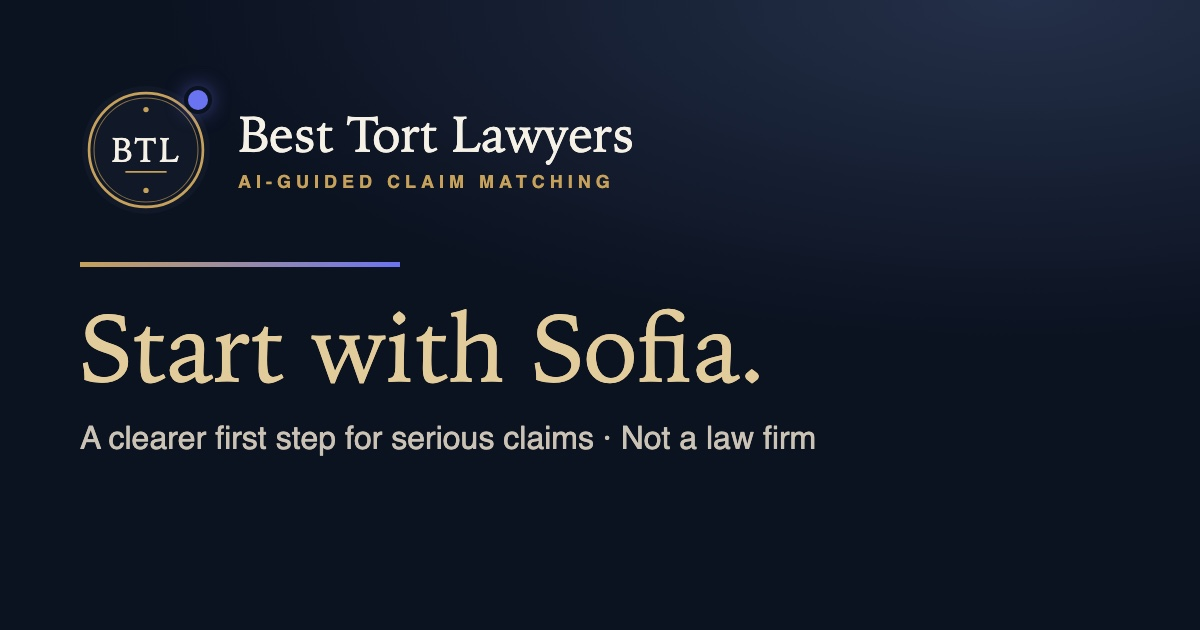
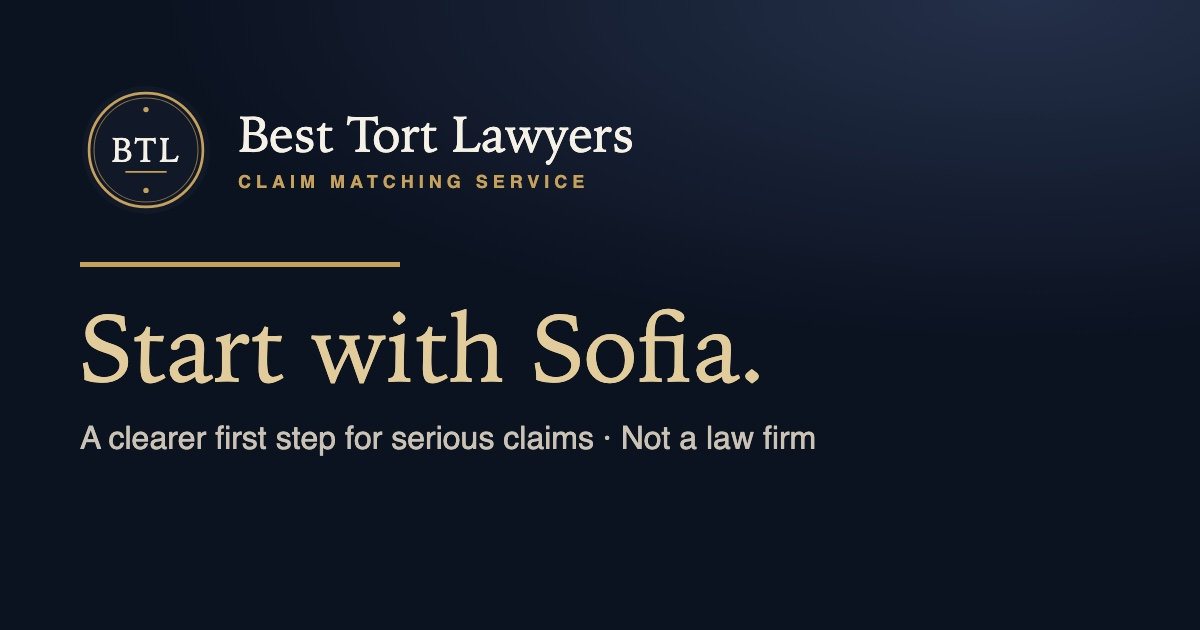
/paraquat/: no AI/Sofia wording, just qualifier dropdowns + contact (AI-free call consent); remove 'AI-guided claim matching' site-wide; share image updated

Changed region(s): [[0.185, 0.2714, 0.5242, 0.3016], [0.1233, 0.3921, 0.3392, 0.4524], [0.1542, 0.1206, 0.185, 0.181]]

diff --git a/btl/paraquat/index.html b/btl/paraquat/index.html
@@ -26,7 +26,7 @@ j=d.createElement(s),dl=l!='dataLayer'?'&l='+l:'';j.async=true;j.src=
 })(window,document,'script','dataLayer','GTM-PHC7459M');</script>
 <!-- End Google Tag Manager -->
 <link rel="icon" href="/assets/btl-seal.svg" type="image/svg+xml">
-<link rel="stylesheet" href="/paraquat/paraquat.css?v=20260928c">
+<link rel="stylesheet" href="/paraquat/paraquat.css?v=20260928d">
 <style>
 :root{
   --ink:#111827;--ink-2:#374151;--muted:#6b7280;--paper:#f6f1e7;--paper-2:#efe8db;--card:#fffdf8;
@@ -180,7 +180,7 @@ footer{background:var(--ink);color:#aeb6c2;padding:48px 0 32px;font-size:.86rem}
 .wm small{margin-top:4px;font-size:.6rem;font-weight:700;letter-spacing:.2em;text-transform:uppercase;color:var(--gold-ink)}
 footer .wm small{color:var(--gold)}
 .seal{position:relative;display:block;flex:none}
-.seal::after{content:"";position:absolute;right:0;top:1px;width:10px;height:10px;border-radius:50%;background:#6b74f0;box-shadow:0 0 0 2px var(--paper),0 0 10px #6b74f0;animation:aipulse 2.6s ease-in-out infinite}
+.seal::after{display:none;content:"";position:absolute;right:0;top:1px;width:10px;height:10px;border-radius:50%;background:#6b74f0;box-shadow:0 0 0 2px var(--paper),0 0 10px #6b74f0;animation:aipulse 2.6s ease-in-out infinite}
 @keyframes aipulse{0%,100%{opacity:.55;transform:scale(.85)}50%{opacity:1;transform:scale(1.05)}}
 @media(prefers-reduced-motion:reduce){.seal::after{animation:none}}
 /* dropdown qualifier inside Muse's Sofia card */
@@ -197,10 +197,10 @@ footer .wm small{color:var(--gold)}
 </head>
 <body>
 <noscript><iframe src="https://www.googletagmanager.com/ns.html?id=GTM-PHC7459M" height="0" width="0" style="display:none;visibility:hidden" title="Google Tag Manager"></iframe></noscript>
-<a class="skip" href="#sofia">Skip to Sofia</a>
+<a class="skip" href="#sofia">Skip to the form</a>
 
 <header class="wrap top">
-  <a class="brand" href="/" aria-label="Best Tort Lawyers home"><span class="seal"><img src="/assets/btl-seal.svg" width="42" height="42" alt=""></span><span class="wm"><b>Best Tort Lawyers</b><small>AI-guided claim matching</small></span></a>
+  <a class="brand" href="/" aria-label="Best Tort Lawyers home"><span class="seal"><img src="/assets/btl-seal.svg" width="42" height="42" alt=""></span><span class="wm"><b>Best Tort Lawyers</b><small>Claim matching service</small></span></a>
   <nav aria-label="Page">
     <a href="#about">The lawsuits</a>
     <a href="#how">How it works</a>
@@ -214,18 +214,17 @@ footer .wm small{color:var(--gold)}
   <div class="wrap">
     <span class="eyebrow">Paraquat claim information</span>
     <h1>Paraquat questions. <em>A clearer first step.</em></h1>
-    <p class="lede">Start with Sofia, Best Tort Lawyers' AI intake guide. Share a few basics about the product and your history to help identify whether you may potentially qualify for further review by an independent law firm.</p>
-    <p class="fine">BTL is a matching/directory service, not a law firm. Sofia is AI, not an attorney. No legal advice or attorney-client relationship is created.</p>
+    <p class="lede">Answer a few quick questions and share your contact details to help identify whether you may potentially qualify for further review by an independent law firm.</p>
+    <p class="fine">BTL is a matching/directory service, not a law firm. No legal advice or attorney-client relationship is created.</p>
 
-    <section class="sofia" id="sofia" aria-label="Sofia, Paraquat intake">
+    <section class="sofia" id="sofia" aria-label="Paraquat case review form">
       <div class="s-head">
-        <div class="s-av" aria-hidden="true">S</div>
-        <div class="s-id"><b>Sofia</b><span>AI intake guide · not a lawyer</span></div>
-        <span class="pill live" id="pill">Paraquat prequalifier</span>
+        <div class="s-av" aria-hidden="true">✓</div><div class="s-id"><b>Paraquat case review</b><span>A few short questions, then your contact details</span></div>
+        <span class="pill live" id="pill">No cost to submit</span>
       </div>
       <div class="q-body" id="formBody">
         <p class="preview-flag" id="previewFlag" hidden>Preview — synthetic test mode, nothing is delivered</p>
-        <form id="leadForm" novalidate data-page-id="btl-paraquat-main-dropdown" data-kind="quiz">
+        <form id="leadForm" novalidate data-page-id="btl-paraquat-main-dropdown" data-kind="quiz" data-consent="no-ai">
           <div class="grid">
             <div class="field full" id="w-who"><label for="who">Who is this inquiry about?</label><select id="who" data-q="who" aria-describedby="who-e"><option value="">Select…</option><option value="self">Me</option><option value="family_living">A family member</option><option value="family_deceased">A family member who has passed away</option></select><span class="ferr" id="who-e"></span></div><div class="field full" id="w-passed" hidden><label for="passed">About when did they pass away?</label><select id="passed" data-q="passed" aria-describedby="passed-e"><option value="">Select…</option><option value="under_1y">Less than a year ago</option><option value="1_2y">1–2 years ago</option><option value="2_3y">2–3 years ago</option><option value="over3y">More than 3 years ago</option><option value="not_sure">Not sure</option></select><span class="ferr" id="passed-e"></span></div><div class="field full" id="w-diagnosis"><label for="diagnosis">Has a doctor diagnosed Parkinson’s disease?</label><select id="diagnosis" data-q="diagnosis" aria-describedby="diagnosis-e"><option value="">Select…</option><option value="yes">Yes</option><option value="no">No</option><option value="not_sure">Not sure</option></select><span class="ferr" id="diagnosis-e"></span></div><div class="field full" id="w-lawyer"><label for="lawyer">Is a lawyer already handling this, or has anyone signed with a lawyer about it?</label><select id="lawyer" data-q="lawyer" aria-describedby="lawyer-e"><option value="">Select…</option><option value="no">No</option><option value="handling">Yes — a lawyer is handling it</option><option value="signed">Signed with a lawyer before</option><option value="not_sure">Not sure</option></select><span class="ferr" id="lawyer-e"></span></div><div class="field full" id="w-job"><label for="job">Was the exposure at a job?</label><select id="job" data-q="job" aria-describedby="job-e"><option value="">Select…</option><option value="job">Yes, at a job (incl. work while incarcerated)</option><option value="home">No — home, garden or hobby use</option><option value="not_sure">Not sure</option></select><span class="ferr" id="job-e"></span></div><div class="field full" id="w-role"><label for="role">What did the work involve?</label><select id="role" data-q="role" aria-describedby="role-e"><option value="">Select…</option><option value="mixed">Mixed or loaded it</option><option value="applied">Applied or sprayed it</option><option value="flagger">Flagged for a crop duster</option><option value="sprayed_on">Was sprayed directly</option><option value="other">None of these — just nearby</option><option value="not_sure">Not sure</option></select><span class="ferr" id="role-e"></span></div><div class="field full" id="w-product"><label for="product">Was it mixed with water, and where did it come from?</label><p class="q-hint">Paraquat is also sold as Gramoxone.</p><select id="product" data-q="product" aria-describedby="product-e"><option value="">Select…</option><option value="supplier">Mixed with water — from a farm or ag supplier</option><option value="retail">Store-bought (Home Depot, Lowe’s) or ready to use</option><option value="not_sure">Not sure</option></select><span class="ferr" id="product-e"></span></div><div class="field full" id="w-years"><label for="years">When did the exposure start?</label><select id="years" data-q="years" aria-describedby="years-e"><option value="">Select…</option><option value="pre1964">All of it was before 1964</option><option value="1964_2010">Between 1964 and 2010</option><option value="2011_on">2011 or later</option><option value="not_sure">Not sure</option></select><span class="ferr" id="years-e"></span></div><div class="field full" id="w-age"><label for="age">Age when it started</label><select id="age" data-q="age" aria-describedby="age-e"><option value="">Select…</option><option value="18plus">18 or older</option><option value="13_17">13 to 17</option><option value="12under">12 or younger</option><option value="not_sure">Not sure</option></select><span class="ferr" id="age-e"></span></div><div class="field full" id="w-cont13" hidden><label for="cont13">Did it continue at age 13 or older?</label><select id="cont13" data-q="cont13" aria-describedby="cont13-e"><option value="">Select…</option><option value="yes">Yes</option><option value="no">No</option><option value="not_sure">Not sure</option></select><span class="ferr" id="cont13-e"></span></div><div class="field full" id="w-season" hidden><label for="season">Worked there at least one full season?</label><select id="season" data-q="season" aria-describedby="season-e"><option value="">Select…</option><option value="yes">Yes</option><option value="no">No</option><option value="not_sure">Not sure</option></select><span class="ferr" id="season-e"></span></div><div class="field full" id="w-acres"><label for="acres">Size of the farm or area</label><select id="acres" data-q="acres" aria-describedby="acres-e"><option value="">Select…</option><option value="over3">More than about 3 acres</option><option value="under3">Less than about 3 acres</option><option value="not_sure">Not sure</option></select><span class="ferr" id="acres-e"></span></div><div class="field full" id="w-meth"><label for="meth">The firm asks everyone: ever used methamphetamine?</label><select id="meth" data-q="meth" aria-describedby="meth-e"><option value="">Select…</option><option value="no">No</option><option value="yes">Yes</option><option value="prefer_not">Prefer not to say</option></select><span class="ferr" id="meth-e"></span></div>
             <p class="q-sep">Your contact details</p>
@@ -242,10 +241,6 @@ footer .wm small{color:var(--gold)}
       </div>
       <p class="s-foot">Answers go only to Best Tort Lawyers’ intake and, when you submit, to the independent legal team that reviews Paraquat inquiries. Don’t enter Social Security numbers, payment details or medical records.</p>
     </section>
-    <div class="pq-cta">
-      <a class="pq-call" href="tel:+12138787408"><span aria-hidden="true">☎</span> Rather talk? Call Sofia · (213) 878-7408</a>
-      <a class="pq-cb" href="/paraquat/talk-to-sofia/?callback=1">Request a callback</a>
-    </div>
   </div>
 </section>
 
@@ -292,11 +287,10 @@ footer .wm small{color:var(--gold)}
   <div class="wrap">
     <h2>Before you start</h2>
     <div class="list">
-      <details><summary>Is Best Tort Lawyers a law firm?</summary><p>No. Best Tort Lawyers is a matching and directory service. It does not give legal advice, and using this page or talking with Sofia does not create an attorney-client relationship.</p></details>
-      <details><summary>Is Sofia a person?</summary><p>No. Sofia is an AI intake guide, not a person and not an attorney. She organizes what you share; she can't tell you whether you have a claim.</p></details>
-      <details><summary>I'm not sure the product was Paraquat.</summary><p>That's fine — choose “Not sure.” Sofia never assumes a weed killer was Paraquat.</p></details>
-      <details><summary>Can Sofia tell me what a case is worth?</summary><p>No. Sofia doesn't estimate value or promise review, acceptance, compensation or timing.</p></details>
-      <details><summary>Where do my answers go?</summary><p>Your messages go to Sofia, which runs on our AI intake provider, and are kept so a person can review them. They are not sold, and this page loads no advertising or analytics trackers. Sofia will tell you before anything is shared with a law firm.</p></details>
+      <details><summary>Is Best Tort Lawyers a law firm?</summary><p>No. Best Tort Lawyers is a matching and directory service. It does not give legal advice, and using this page does not create an attorney-client relationship.</p></details>
+      <details><summary>I'm not sure the product was Paraquat.</summary><p>That's fine — choose “Not sure.” We never assume a weed killer was Paraquat.</p></details>
+      <details><summary>Can you tell me what a case is worth?</summary><p>No. We don't estimate value or promise review, acceptance, compensation or timing. Any independent law firm decides under its own criteria.</p></details>
+      <details><summary>Where do my answers go?</summary><p>Only to Best Tort Lawyers’ intake and, when you submit, to the independent legal team that reviews Paraquat inquiries. They are not sold.</p></details>
     </div>
   </div>
 </section>
@@ -305,7 +299,7 @@ footer .wm small{color:var(--gold)}
 <footer>
   <div class="wrap">
     <div class="f-top">
-      <div class="f-brand"><img src="/assets/btl-seal.svg" width="36" height="36" alt=""><span class="wm"><b>Best Tort Lawyers</b><small>AI-guided claim matching</small></span></div>
+      <div class="f-brand"><img src="/assets/btl-seal.svg" width="36" height="36" alt=""><span class="wm"><b>Best Tort Lawyers</b><small>Claim matching service</small></span></div>
       <nav class="f-links" aria-label="Footer">
         <a href="/">Home</a>
         <a href="/privacy-policy/">Privacy Policy</a>
@@ -314,11 +308,11 @@ footer .wm small{color:var(--gold)}
         <a href="mailto:Sofia@besttortlawyers.com">Sofia@besttortlawyers.com</a>
       </nav>
     </div>
-    <p class="f-legal">ATTORNEY ADVERTISING. Best Tort Lawyers is a matching and directory service, not a law firm, and does not provide legal advice. Using this website or speaking with Sofia does not create an attorney-client relationship. Any independent law firm evaluates potential matters under its own criteria. No review, acceptance, representation, compensation or recovery is guaranteed. Prior results do not guarantee a similar outcome. Call Sofia, our AI intake guide, at (213) 878-7408.<br>Background photo: USDA NRCS, soybean field (public domain, <a href="https://commons.wikimedia.org/wiki/File:Seidenstricker_Farms-Reservoir-Irrigation-Precision_Land_leveled_fields_(20190625-NRCS-LSC-0447).jpg" rel="noopener">source</a>). Context only; it does not depict any claimant or exposure.</p>
+    <p class="f-legal">ATTORNEY ADVERTISING. Best Tort Lawyers is a matching and directory service, not a law firm, and does not provide legal advice. Using this website or submitting this form does not create an attorney-client relationship. Any independent law firm evaluates potential matters under its own criteria. No review, acceptance, representation, compensation or recovery is guaranteed. Prior results do not guarantee a similar outcome.<br>Background photo: USDA NRCS, soybean field (public domain, <a href="https://commons.wikimedia.org/wiki/File:Seidenstricker_Farms-Reservoir-Irrigation-Precision_Land_leveled_fields_(20190625-NRCS-LSC-0447).jpg" rel="noopener">source</a>). Context only; it does not depict any claimant or exposure.</p>
   </div>
 </footer>
 
-<script src="/paraquat/qualifier.js?v=20260928c" defer></script>
-<script src="/paraquat/intake.js?v=20260928c" defer></script>
+<script src="/paraquat/qualifier.js?v=20260928d" defer></script>
+<script src="/paraquat/intake.js?v=20260928d" defer></script>
 </body>
 </html>

diff --git a/btl/paraquat/intake.js b/btl/paraquat/intake.js
@@ -67,6 +67,8 @@
     calls: 'Calls: I agree to receive calls at the number above about my potential claim from Best Tort Lawyers — including Sofia, its AI assistant — and the law firm intake team it connects me with, including by automatic telephone dialing systems or prerecorded/artificial voice. Calls may be recorded. Consent is not a condition of any purchase or service.',
     sms: 'Texts: I agree to receive text messages at the number above about my potential claim from Best Tort Lawyers and the law firm intake team it connects me with, which may be sent using automated technology. Message frequency varies. Message and data rates may apply. Reply STOP to opt out or HELP for help. See the SMS Terms.'
   };
+  var NO_AI = form.getAttribute('data-consent') === 'no-ai';
+  if (NO_AI) CONSENT.calls = 'Calls: I agree to receive calls at the number above about my potential claim from Best Tort Lawyers and the law firm intake team it connects me with, including by automatic telephone dialing systems or prerecorded/artificial voice. Calls may be recorded. Consent is not a condition of any purchase or service.';
   var consentBox = document.getElementById('consentBox');
   consentBox.innerHTML =
     '<p class="c-title" id="consentT">How may we contact you?</p>' +
@@ -257,7 +259,7 @@
     body.innerHTML = '';
     var wrap = document.createElement('div'); wrap.className = 'receipt'; wrap.setAttribute('tabindex', '-1');
     wrap.innerHTML = '<div class="tick" aria-hidden="true"><svg width="22" height="22" viewBox="0 0 24 24" fill="none" stroke="currentColor" stroke-width="2.6" stroke-linecap="round" stroke-linejoin="round"><path d="m5 12 5 5L20 7"/></svg></div>' +
-      '<h2></h2><p class="nx"></p><p class="small" style="font-size:.86rem;color:var(--muted)">' + (KIND === 'callback' ? 'A callback request' : 'Receiving an inquiry') + ' is not a review decision. An independent law firm decides under its own criteria. You can opt out at any time by replying STOP to texts or telling Sofia.</p><dl></dl>';
+      '<h2></h2><p class="nx"></p><p class="small" style="font-size:.86rem;color:var(--muted)">' + (KIND === 'callback' ? 'A callback request' : 'Receiving an inquiry') + ' is not a review decision. An independent law firm decides under its own criteria. You can opt out at any time by replying STOP to texts or ' + (NO_AI ? 'telling us' : 'telling Sofia') + '.</p><dl></dl>';
     wrap.querySelector('h2').textContent = KIND === 'callback' ? 'Your callback request was received.' : 'Your inquiry was received.';
     wrap.querySelector('.nx').textContent = next;
     var dl = wrap.querySelector('dl');

diff --git a/btl/paraquat/talk-to-sofia/index.html b/btl/paraquat/talk-to-sofia/index.html
@@ -24,7 +24,7 @@ j=d.createElement(s),dl=l!='dataLayer'?'&l='+l:'';j.async=true;j.src=
 <!-- End Google Tag Manager -->
 <link rel="icon" href="/assets/btl-seal.svg" type="image/svg+xml">
 <link rel="preload" as="image" href="/assets/sofia/sofia-portrait-440x784.jpg">
-<link rel="stylesheet" href="/paraquat/paraquat.css?v=20260928c">
+<link rel="stylesheet" href="/paraquat/paraquat.css?v=20260928d">
 <style>
 /* Composition reproduced from nearestinjurylawyers.com/talk-to-sofia.html, re-skinned to BTL institutional tokens. */
 :root{--bg:#0b1220;--bg2:#131c2e;--t-ink:#f6f1e7;--t-muted:#c9c2b4;--t-dim:#98a0ad;--acc:#c6a15b;--acc-2:#e3cc9c;--t-line:rgba(198,161,91,.4);--glow:rgba(198,161,91,.26)}
@@ -93,7 +93,7 @@ body.talk{background:radial-gradient(120% 80% at 80% 0%,#243049 0%,var(--bg) 58%
 
 <div class="wrap">
 <header class="top">
-  <a class="brand" href="/" aria-label="Best Tort Lawyers home"><span class="seal"><img src="/assets/btl-seal.svg" width="42" height="42" alt=""></span><span class="wm"><b>Best Tort Lawyers</b><small>AI-guided claim matching</small></span></a>
+  <a class="brand" href="/" aria-label="Best Tort Lawyers home"><span class="seal"><img src="/assets/btl-seal.svg" width="42" height="42" alt=""></span><span class="wm"><b>Best Tort Lawyers</b><small>Claim matching service</small></span></a>
   <span class="top-note">Matching service · not a law firm</span>
 </header>
 
@@ -152,7 +152,7 @@ body.talk{background:radial-gradient(120% 80% at 80% 0%,#243049 0%,var(--bg) 58%
 <footer class="foot">
   <div class="wrap">
     <div class="f-top">
-      <div class="f-brand"><img src="/assets/btl-seal.svg" width="36" height="36" alt=""><span class="wm"><b>Best Tort Lawyers</b><small>AI-guided claim matching</small></span></div>
+      <div class="f-brand"><img src="/assets/btl-seal.svg" width="36" height="36" alt=""><span class="wm"><b>Best Tort Lawyers</b><small>Claim matching service</small></span></div>
       <nav class="f-links" aria-label="Footer">
         <a href="/paraquat/">Paraquat overview</a>
         <a href="/paraquat/quiz/">Take the quiz</a>
@@ -165,6 +165,6 @@ body.talk{background:radial-gradient(120% 80% at 80% 0%,#243049 0%,var(--bg) 58%
   </div>
 </footer>
 
-<script src="/paraquat/intake.js?v=20260928c" defer></script>
+<script src="/paraquat/intake.js?v=20260928d" defer></script>
 </body>
 </html>

diff --git a/btl/paraquat/quiz/index.html b/btl/paraquat/quiz/index.html
@@ -26,7 +26,7 @@ j=d.createElement(s),dl=l!='dataLayer'?'&l='+l:'';j.async=true;j.src=
 })(window,document,'script','dataLayer','GTM-PHC7459M');</script>
 <!-- End Google Tag Manager -->
 <link rel="icon" href="/assets/btl-seal.svg" type="image/svg+xml">
-<link rel="stylesheet" href="/paraquat/paraquat.css?v=20260928c">
+<link rel="stylesheet" href="/paraquat/paraquat.css?v=20260928d">
 <style>
 :root{
   --ink:#111827;--ink-2:#374151;--muted:#6b7280;--paper:#f6f1e7;--paper-2:#efe8db;--card:#fffdf8;
@@ -210,7 +210,7 @@ footer .wm small{color:var(--gold)}
 <a class="skip" href="#quiz">Skip to Sofia</a>
 
 <header class="wrap top">
-  <a class="brand" href="/" aria-label="Best Tort Lawyers home"><span class="seal"><img src="/assets/btl-seal.svg" width="42" height="42" alt=""></span><span class="wm"><b>Best Tort Lawyers</b><small>AI-guided claim matching</small></span></a>
+  <a class="brand" href="/" aria-label="Best Tort Lawyers home"><span class="seal"><img src="/assets/btl-seal.svg" width="42" height="42" alt=""></span><span class="wm"><b>Best Tort Lawyers</b><small>Claim matching service</small></span></a>
   <nav aria-label="Page">
     <a href="#about">The lawsuits</a>
     <a href="#how">How it works</a>
@@ -329,7 +329,7 @@ footer .wm small{color:var(--gold)}
 <footer>
   <div class="wrap">
     <div class="f-top">
-      <div class="f-brand"><img src="/assets/btl-seal.svg" width="36" height="36" alt=""><span class="wm"><b>Best Tort Lawyers</b><small>AI-guided claim matching</small></span></div>
+      <div class="f-brand"><img src="/assets/btl-seal.svg" width="36" height="36" alt=""><span class="wm"><b>Best Tort Lawyers</b><small>Claim matching service</small></span></div>
       <nav class="f-links" aria-label="Footer">
         <a href="/">Home</a>
         <a href="/privacy-policy/">Privacy Policy</a>
@@ -342,7 +342,7 @@ footer .wm small{color:var(--gold)}
   </div>
 </footer>
 
-<script src="/paraquat/prequal.js?v=20260928c" defer></script>
-<script src="/paraquat/intake.js?v=20260928c" defer></script>
+<script src="/paraquat/prequal.js?v=20260928d" defer></script>
+<script src="/paraquat/intake.js?v=20260928d" defer></script>
 </body>
 </html>

diff --git a/btl/index.html b/btl/index.html
@@ -221,7 +221,7 @@ footer{background:#0d1422;color:#b8c0cc;padding:48px 0 34px}
   <div class="wrap nav">
     <a class="brandlock" href="/">
       <svg xmlns="http://www.w3.org/2000/svg" class="brandmark brand-logo" aria-hidden="true" viewBox="0 0 64 64"><circle cx="32" cy="32" r="31" fill="#111827"/><circle cx="32" cy="32" r="27.6" fill="none" stroke="#C6A15B" stroke-width="1.3"/><circle cx="32" cy="32" r="25.2" fill="none" stroke="#C6A15B" stroke-width=".5" opacity=".65"/><text x="32" y="37.6" text-anchor="middle" font-family="'Iowan Old Style','Baskerville','Palatino Linotype',Georgia,serif" font-size="16.5" letter-spacing="1.2" fill="#F6F1E7">BTL</text><path d="M22 42.6h20" stroke="#C6A15B" stroke-width=".9"/><circle cx="32" cy="12.4" r="1.3" fill="#C6A15B"/><circle cx="32" cy="51.6" r="1.3" fill="#C6A15B"/></svg>
-      <span class="brandcopy"><strong>Best Tort Lawyers</strong><span>AI-guided claim matching</span></span>
+      <span class="brandcopy"><strong>Best Tort Lawyers</strong><span>Claim matching service</span></span>
     </a>
     <nav class="navlinks">
       <a href="#claims">Claim types</a>
